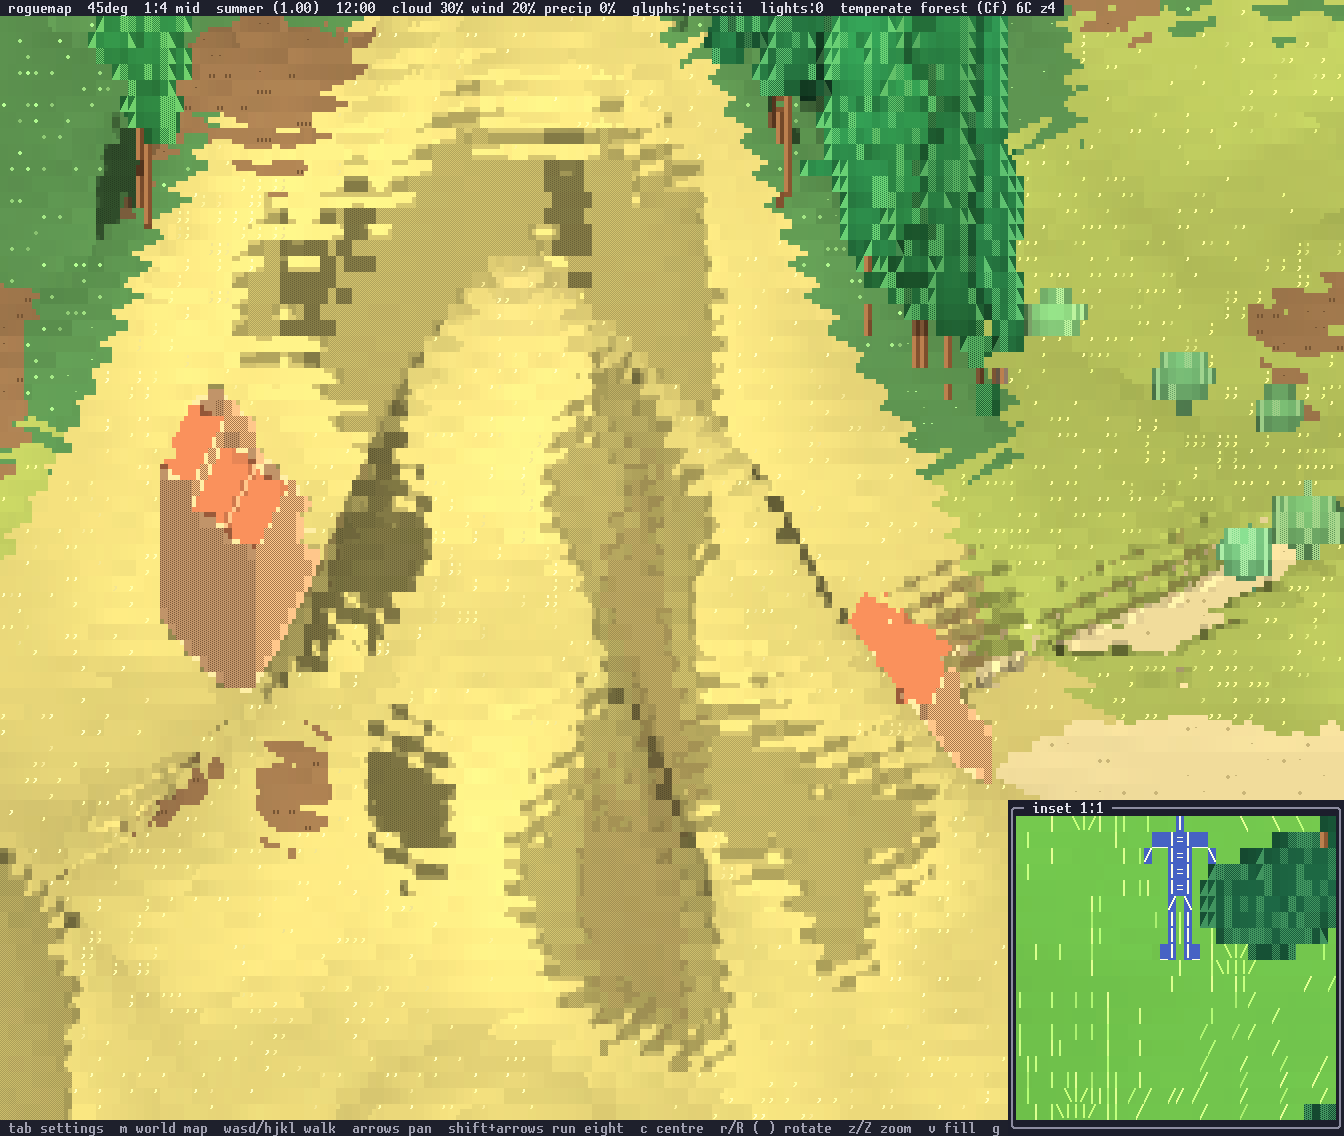
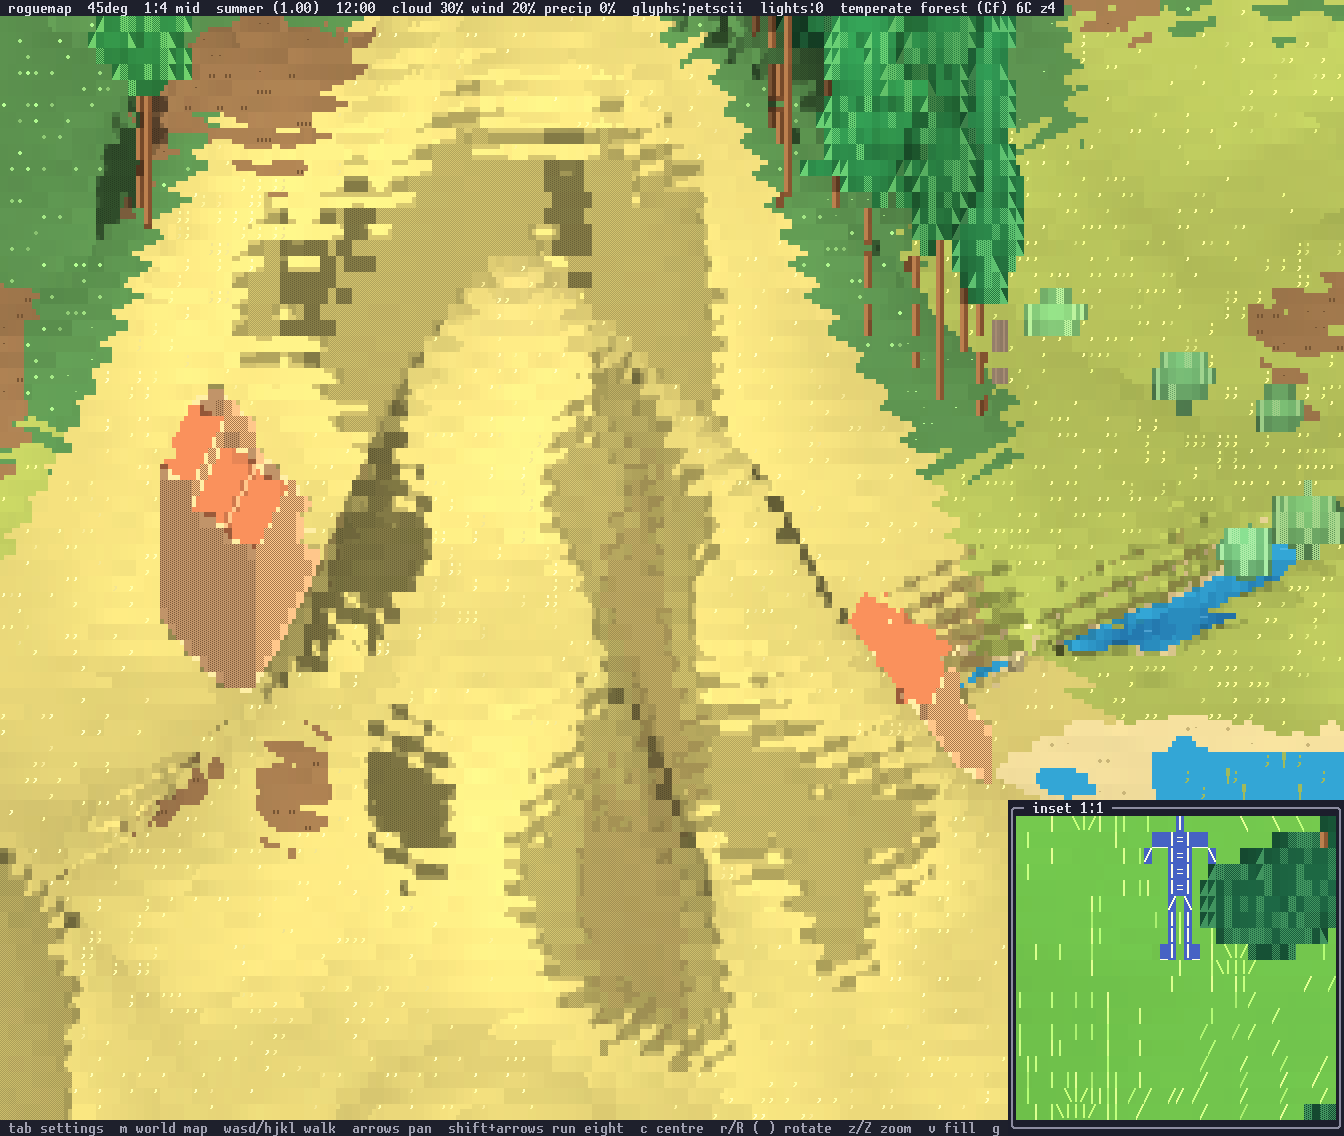
Refresh the cost paragraph and the screenshots
The Cost numbers were measured again on the three fixes, with `frames=20`
at 168x71 with the inset open: 12.2 ms at 1:8, 14.6 at 1:4, 15.2 at 1:2
and 19.2 at 1:1 on the boreal stand, the origin 13.2, the village 15.8, a
village with fields 15.5 and the winter origin 14.5. Against the same
build without these three commits every one of them is within the
run-to-run spread of about 0.2 ms, so none of the fixes costs measurable
time; the ocean at 1:8, which used to paint sand, is 6.1. The stand at
1:1 and the winter origin have both moved since the paragraph was last
written, in opposite directions.

The screenshots follow the frames: every filled-world shot with water in
it now has water rather than sand (island, rotated, filled, village,
steppe, clouds, ascii, settings), and the boreal stand shots carry the
new bare-branch glyph on their shed whorls.

diff --git a/docs/rendering.md b/docs/rendering.md
@@ -303,11 +303,13 @@ which renders N frames and prints the mean:
 
 At 168x71 with the inset open, seed 7, on the boreal stand at
 `cx=500 cy=-300` — the densest forest in the world — a frame takes about
-11.8 ms at 1:8, 14.5 at 1:4, 15.2 at 1:2 and 17.2 at 1:1. Over the filled
-world at 1:4: the origin 13.3, the village 15.5, the origin in winter
-16.3. Part of the cost at the two outer zooms is the inset itself, which
-draws at 1:1. The budget is 16 ms a frame (issue #1); the stand at 1:1 and
-the winter origin sit just over it. The event loop polls on a 40 ms tick,
+12.2 ms at 1:8, 14.6 at 1:4, 15.2 at 1:2 and 19.2 at 1:1. Over the filled
+world at 1:4: the origin 13.2, the village 15.8, a village with fields
+15.5, the origin in winter 14.5. Open water is the cheapest scene there
+is — the ocean at 1:8 is 6.1 — because the walk meets the flat sea at the
+first sample under the clamp and there is nothing standing on it. Part of
+the cost at the two outer zooms is the inset itself, which draws at 1:1.
+The budget is 16 ms a frame (issue #1); only the stand at 1:1 is over it. The event loop polls on a 40 ms tick,
 so 25 frames a second is the ceiling either way. The first frame after a
 camera move is dearer than the rest, because the trees that came into view
 are grown on it.
